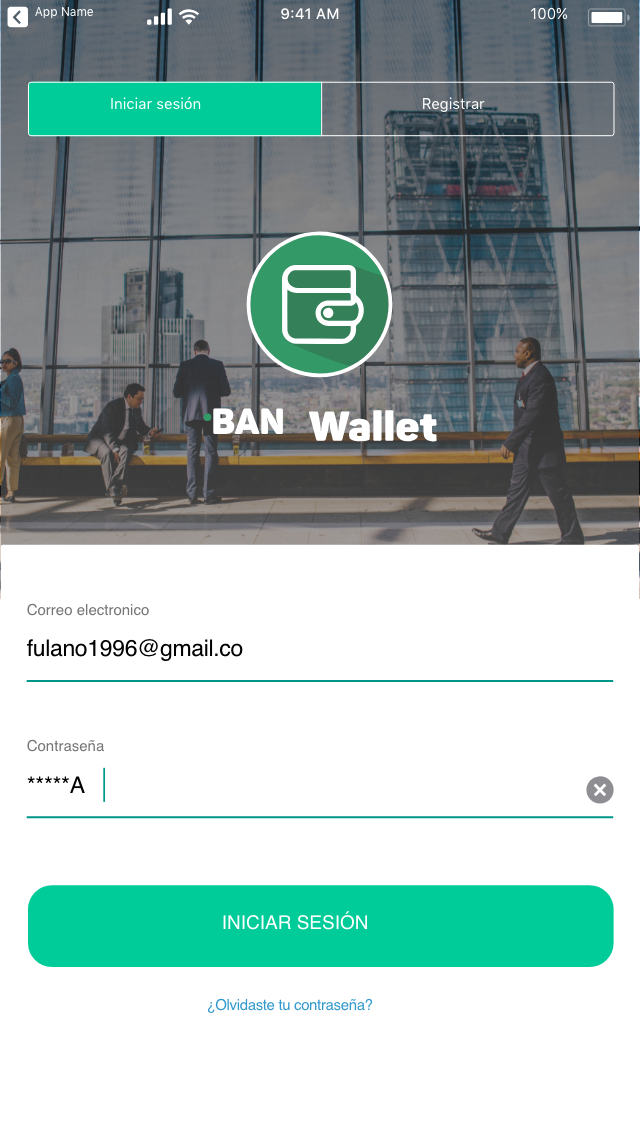
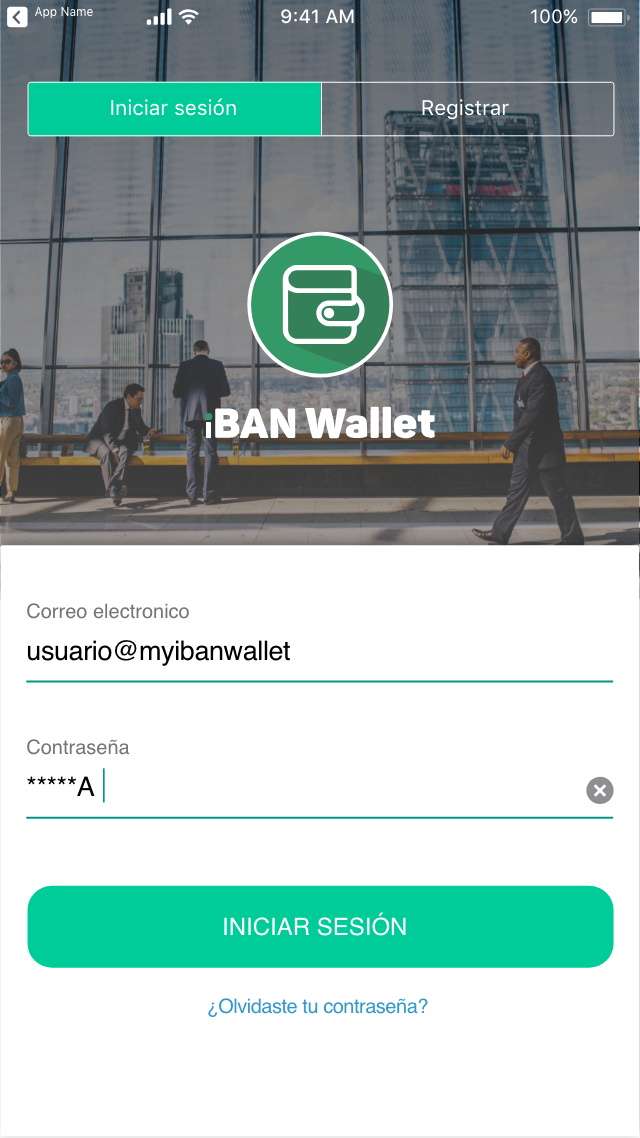
se actualizo la imagen del home page del mobile

diff --git a/src/page/Cookie.js b/src/page/Cookie.js
@@ -1,0 +1,19 @@
+import React, {Component} from 'react'
+
+class Cookie extends Component {
+    render(){
+        return(
+            <div className="cookie container-fluid">
+                <section className="coo-1-section container">
+                    <h1 className="h6 font-weight-bold">Terminos y condiciones de uso del sitio web <a href="www.myibanwallet.com">www.myibanwallet.com</a></h1>
+
+
+                </section>
+            </div>
+        )
+    }
+
+
+}
+
+export default Termino
